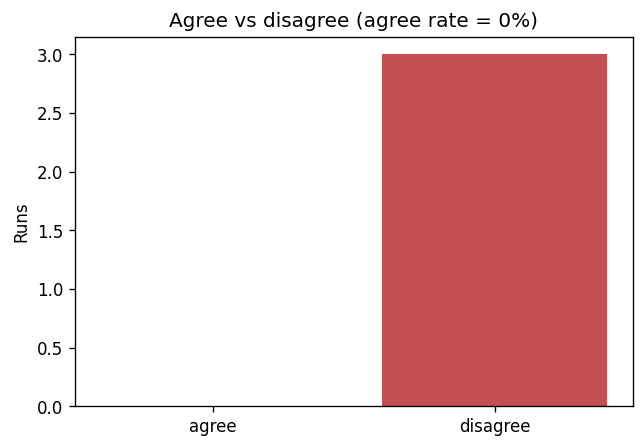
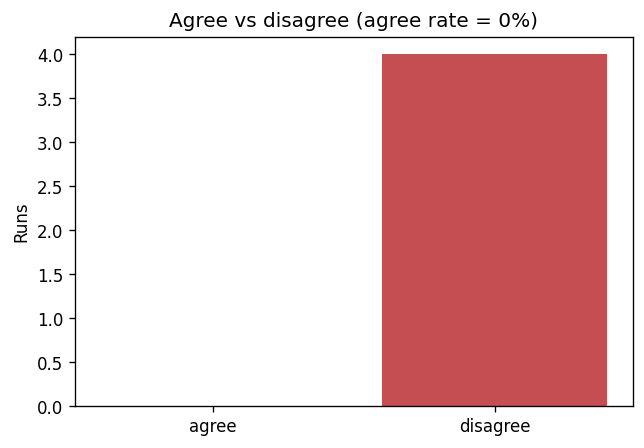
Add 5-round nuclear-energy debate run + update dataset/charts
Add a 5-round debate on "Nuclear energy is essential for solving the
climate crisis" (winner: Con). Adds the runs/nuclear-energy/ JSONL +
Markdown pair, a new row in runs/README.md, and regenerates the dataset
CSV and figures to reflect n=4 committed runs.

diff --git a/runs/nuclear-energy/nuclear-energy.md b/runs/nuclear-energy/nuclear-energy.md
@@ -1,0 +1,206 @@
+# Debate run `nuclear-energy`
+
+**Topic:** Nuclear energy is essential for solving the climate crisis
+
+## Transcript
+
+### Round 1
+
+**Pro** (143 words)
+
+## ⚡ Opening Argument — FOR the Motion
+
+**Nuclear energy is essential for solving the climate crisis.**
+
+Nuclear power produces among the **lowest lifecycle carbon emissions** of any energy source — on par with wind, and vastly cleaner than fossil fuels.
+
+Critically, unlike solar and wind, nuclear delivers **reliable 24/7 baseload power** regardless of weather conditions, filling the dangerous gaps that intermittent renewables simply cannot cover.
+
+The **IAEA confirms** nuclear complements renewables as global energy demand grows. France's example is decisive: by running a nuclear-heavy grid, it achieved **some of the world's lowest electricity emissions**.
+
+With climate science demanding full decarbonisation within decades, we cannot afford to **discard a proven, scalable, low-carbon technology**. Every credible net-zero pathway — including those from the IEA and IPCC — includes nuclear.
+
+The climate crisis is too urgent to leave any clean weapon off the table. 🌍
+
+**Con** (128 words)
+
+## ⚡ Rebuttal — AGAINST the Motion
+
+My opponent calls nuclear *essential* — but **"included" is not "essential."** The IEA and IPCC present nuclear as **one option**, not a mandatory requirement; renewables-only net-zero pathways exist.
+
+Their "reliable baseload" argument ignores a **fatal flaw: time.** Nuclear plants take **10–20 years** to build. Georgia's Vogtle reactors — America's newest — ran **7 years over schedule** and cost **$15,000/kW**. Meanwhile, battery storage costs dropped **89% from 2010–2023**. The climate crisis cannot wait for nuclear's timeline.
+
+France is an **unreplicable outlier** — built under unique Cold War conditions, ageing, and increasingly costly to maintain.
+
+Renewables + storage are solving intermittency **right now**, affordably. Nuclear is too slow, too expensive, and produces waste lasting millennia. **It is a distraction, not a solution.** 🌍
+
+### Round 2
+
+**Pro** (138 words)
+
+## ⚡ Rebuttal — FOR the Motion
+
+My opponent cherry-picks **Vogtle** while ignoring the UAE's Barakah plant and South Korea's fleet — built **on time and on budget** using modern APR-1400 designs. Construction problems are solvable; abandoning a proven low-carbon technology is not.
+
+Crucially, nuclear **already exists**. The current global fleet delivers ~10% of world electricity with near-zero emissions **today**. Dismantling it would be a climate disaster no renewables ramp-up could quickly offset.
+
+Battery storage is still **unproven for multi-day and seasonal grid needs** — exactly where nuclear is irreplaceable. Dropping costs don't solve the physics of cloudy, windless weeks.
+
+The IPCC's most ambitious net-zero scenarios project nuclear capacity **doubling by 2050** — that's not "one option," that's a cornerstone.
+
+Nuclear waste is tiny in volume and safely contained. Atmospheric CO₂ is not. The comparison is clear. 🌍
+
+**Con** (132 words)
+
+## ⚡ Rebuttal — AGAINST the Motion
+
+Two cherry-picked successes don't prove scalability. Barakah and South Korea are **regional exceptions** — globally, nuclear output is nearly **identical to 20 years ago** despite soaring demand, meaning its share has actively *shrunk* (Our World in Data, 2025). That's not a cornerstone; that's stagnation.
+
+The IPCC's "doubling" scenario is its **most nuclear-heavy pathway** — equally valid low-nuclear net-zero pathways exist. Citing the maximum isn't proof of necessity.
+
+On seasonal storage: **green hydrogen and long-duration storage** technologies are precisely designed for multi-day gaps — nuclear isn't the only answer.
+
+Meanwhile, renewables added **record capacity globally every year** while nuclear flatlined. The climate emergency demands the **fastest, cheapest, most scalable** solutions — and that is demonstrably renewables, not nuclear. Maintaining old plants ≠ scaling new ones. 🌍
+
+### Round 3
+
+**Pro** (141 words)
+
+## ⚡ Rebuttal — FOR the Motion
+
+Stagnation is a **policy failure, not a technology failure** — and the world is actively correcting it.
+
+At **COP28, 25 nations signed a declaration to TRIPLE nuclear capacity by 2050**; that number has since grown to **33 countries, including China and Brazil**. This is a global renaissance, not flatline.
+
+My opponent's renewable "capacity" figures are misleading. Solar averages **15–25% capacity factor**; nuclear exceeds **90%**. Record capacity additions ≠ record reliable generation — that gap is exactly where nuclear is irreplaceable.
+
+Green hydrogen for seasonal storage? Still **commercially unproven at grid scale**. We cannot bet the climate on technologies that don't yet exist reliably.
+
+Low-nuclear pathways require **vastly more land, storage, and redundancy** — they are costlier and riskier, not equivalent.
+
+The world has decided: nuclear is essential. 33 governments can't all be wrong. 🌍
+
+**Con** (130 words)
+
+## ⚡ Rebuttal — AGAINST the Motion
+
+**Declarations ≠ built reactors.** The COP28 pledge is non-binding with zero enforcement mechanism — and nuclear's decades-long track record of delays makes tripling by 2050 fantasy, not renaissance.
+
+On capacity factor: **90% efficiency means nothing without cost context.** Nuclear costs $10,000–$15,000/kW to build. Solar-plus-storage achieves comparable reliability at a *fraction* of that price — and falling.
+
+Crucially, those same 33 governments are **simultaneously pouring far greater investment into renewables**. That proves nuclear is considered *useful* — not *essential*. My opponent is conflating the two.
+
+Finally, political consensus ≠ technological necessity. Governments spent decades in "clean coal" consensus. They were wrong. **33 signatures don't override economics, timelines, or physics.** The climate crisis demands what works fastest and cheapest — and that remains renewables. 🌍
+
+### Round 4
+
+**Pro** (137 words)
+
+## ⚡ Rebuttal — FOR the Motion
+
+The **clean coal comparison collapses immediately**: clean coal *never worked*. Nuclear already delivers **proven, operational, near-zero-carbon electricity** to hundreds of millions daily. These are opposites, not equivalents.
+
+On costs — my opponent ignores **full system costs**. Solar-plus-storage requires massive grid upgrades, long-distance transmission, and long-duration storage that remains unproven at scale. Nuclear's sticker price looks different when you compare **complete system costs honestly**.
+
+On timelines — **SMRs change the equation entirely**. Factory-built modular reactors dramatically cut construction time. Amazon committed **$500M+ to SMR development in 2024**; the U.S. DOE launched a Gen III+ SMR deployment programme in **2025**. This is happening now.
+
+Solar-plus-storage matching nuclear's **90%+ capacity factor at grid scale** is a theoretical claim — not an operational reality anywhere on Earth.
+
+Nuclear works. It's proven. It's accelerating. 🌍
+
+**Con** (134 words)
+
+## ⚡ Rebuttal — AGAINST the Motion
+
+My opponent pivots to SMRs — but **as of 2025, not a single commercial SMR is operational in the Western world.** 127 designs exist; proven deployment is negligible. Amazon's $500M and DOE programmes are *bets on future technology*, not present solutions.
+
+Crucially, my opponent **conflates existing large reactors with unbuilt SMRs** — they are not interchangeable. "Nuclear is proven" cannot simultaneously justify speculative SMR technology.
+
+On full system costs: nuclear *also* requires grid infrastructure, cooling water, decades of waste storage, and costly decommissioning — routinely excluded from headline comparisons. The cost argument cuts both ways.
+
+Meanwhile, solar and wind set **record generation in 2024** — operational reality, not theory. The climate crisis demands solutions *now*. SMRs at best arrive in the 2030s. **That delay is disqualifying.** 🌍
+
+### Round 5
+
+**Pro** (132 words)
+
+## ⚡ Rebuttal — FOR the Motion
+
+My opponent's central claim is **factually wrong**. SMRs are already operational: **Russia's Akademik Lomonosov and China's HTR-PM and Linglong One** are commercially running *right now*. The "no SMR exists" argument is simply false.
+
+Meanwhile, the **existing large nuclear fleet** — hundreds of reactors — delivers proven, 24/7 low-carbon power **today**. My opponent can't dismiss that as "speculative."
+
+The "delay is disqualifying" argument ignores that **net-zero targets run to 2050** — SMRs arriving in the 2030s deliver **two full decades** of essential clean baseload.
+
+Most damning: **record renewable generation in 2024 coincided with record global CO₂ emissions**. That single fact destroys the claim that renewables alone are sufficient. Nuclear fills precisely the gap renewables cannot.
+
+The evidence keeps mounting. Nuclear is essential — not optional. 🌍
+
+**Con** (131 words)
+
+## ⚡ Rebuttal — AGAINST the Motion
+
+Russia's floating barge and China's experimental HTR-PM are **geopolitically isolated, non-replicable models** — not evidence of global SMR scalability. That's a weak foundation for "essential."
+
+The CO2 argument is **my opponent's most misleading yet.** Record 2024 emissions reflect fossil fuel dominance — renewables displaced every kilowatt they could. The gap isn't missing nuclear; it's **fossil fuels that nuclear also cannot quickly replace.** Where was nuclear's contribution to filling *that* gap?
+
+Critically, **IAEA data confirms 81GW of existing nuclear retires by 2050.** The "fleet delivers today" argument is a *shrinking* asset. Per Rabobank's analysis, few new large reactors operate before 2040 — meaning nuclear's near-term trajectory is **decline, not growth.**
+
+Renewables are scaling *now*. Nuclear is contracting *now*. The math doesn't make nuclear essential. 🌍
+
+## Closing discussion
+
+**Pro** (145 words)
+
+## 🏁 Closing Statement — FOR the Motion
+
+Here is the case, plainly stated:
+
+**Nuclear delivers 25% of all low-carbon electricity** while representing just 9% of total generation — an efficiency no other clean source matches. The IAEA confirmed this in 2026. That is not a distraction; that is a pillar.
+
+My opponent celebrated record renewables. Yet **2024 also saw record global CO₂ emissions**. That single, devastating fact proves renewables alone are not solving the crisis.
+
+Nuclear is **proven, operational, and scaling** — 33 nations committed, SMRs running in Asia, new capacity accelerating. Every IEA and IPCC net-zero pathway includes it.
+
+Abandoning nuclear means replacing irreplaceable 24/7 clean baseload with unproven seasonal storage on an unforgiving deadline. That is not boldness — it is recklessness.
+
+The climate crisis demands **every proven clean weapon**. Nuclear is essential. The evidence, the science, and 33 governments agree. 🌍
+
+**Con** (142 words)
+
+## ⚡ Closing Statement — AGAINST the Motion
+
+Throughout this debate, one truth has remained unshaken: **"included" is not "essential."**
+
+Nuclear has had 70 years to scale. Instead, its global share **stagnated for two decades** while 81GW faces retirement by 2050. The fleet is contracting, not expanding. SMR "successes" remain isolated experiments, and COP28 pledges are non-binding political gestures from governments that simultaneously invest *far more* in renewables.
+
+My opponent's strongest point — record CO2 alongside record renewables — actually indicts **fossil fuels**, not renewables. Nuclear added nothing meaningful to that equation either.
+
+Meanwhile, solar and wind deployment hit **record highs in 2024**, costs keep falling, and storage technology advances rapidly. The IPCC confirms renewables-only pathways exist.
+
+The climate crisis demands the **fastest, cheapest, most scalable solutions**. Nuclear is none of those things. It is a choice — never a necessity. 🌍
+
+## Controller nudges
+
+_No nudges were needed — neither agent drifted._
+
+## Verdict
+
+- **Winner:** Con
+- **Agents converged:** no
+- **Scores:** Pro 13.5, Con 16.5
+
+**Summary.** Debate of 12 turns. The con side argued more effectively and wins. The agents stayed opposed. Judged on argumentation, rebuttal quality and engagement — not factual correctness.
+
+**Rationale.** Pro scored 13.5 and Con scored 16.5 on argumentation/rebuttal/engagement; winner = con.
+
+## Cost & tokens
+
+- **Total tokens:** 170851 (input 159204, output 11647)
+- **Total cost:** $0.652317
+- **Total latency:** 261812 ms
+
+| Model | Input tokens | Output tokens | $ Input | $ Output | $ Total |
+| --- | --- | --- | --- | --- | --- |
+| anthropic:claude-sonnet-4-6 | 159204 | 11647 | $0.477612 | $0.174705 | $0.652317 |
+| Overall | 159204 | 11647 | $0.477612 | $0.174705 | $0.652317 |

diff --git a/notebooks/figures/README.md b/notebooks/figures/README.md
@@ -1,9 +1,10 @@
 # Debate results — interpreted visualizations (PRD §9, task 14.3)
 
 These charts visualize the four PRD §9 analyses over the committed sample runs
-(`runs/dataset/runs_summary.csv`, **n = 3** debates — the full 10-round
-`capitalism` run, the 5-round `four-day-work-week` policy run, and the 5-round
-`online-education` education debate). They are
+(`runs/dataset/runs_summary.csv`, **n = 4** debates — the full 10-round
+`capitalism` run, the 5-round `four-day-work-week` policy run, the 5-round
+`online-education` education debate, and the 5-round `nuclear-energy` energy
+debate). They are
 regenerated from the durable `runs/<run_id>.jsonl` logs by reusing the 14.2
 analysis functions (`agent_debate.core.research.analysis`) — no aggregation is
 re-implemented here.
@@ -17,17 +18,18 @@ uv run --group viz python scripts/generate_figures.py
 
 PRD §9 asks for *interpretation*, not just numbers, with an eye on whether the
 anti-sycophancy design holds. Each chart below is read in that light. The
-empirical basis is n = 3 runs (an economics topic at 10 rounds, a policy
-topic at 5 rounds, and an education topic at 5 rounds), so these illustrate
-tendencies across three debates rather than statistical trends across many.
+empirical basis is n = 4 runs (an economics topic at 10 rounds, a policy
+topic at 5 rounds, an education topic at 5 rounds, and an energy topic at 5
+rounds), so these illustrate tendencies across four debates rather than
+statistical trends across many.
 
 ## 1. Who-wins distribution
 
 ![Who-wins distribution](who_wins.png)
 
-Two of the three committed runs (`capitalism` and `four-day-work-week`) were won by **pro**;
-the `online-education` run was won by **con**.
-With only three runs this is a small sample — it does not establish a structural
+The four committed runs split evenly: `capitalism` and `four-day-work-week` were won by
+**pro**; `online-education` and `nuclear-energy` were won by **con**.
+With only four runs this is a small sample — it does not establish a structural
 favourite for either side. The verdict mechanism itself (side-anchoring +
 independent contexts, §5, plus the controller's debate-derived judgement) is
 what guards against one persona dominating; that logic is exercised by the
@@ -37,26 +39,26 @@ engine tests, not inferred from a three-run chart.
 
 ![Agree vs disagree](agree_vs_disagree.png)
 
-**0 % convergence across all three runs** — all debates ended in disagreement
+**0 % convergence across all four runs** — all debates ended in disagreement
 (`converged = False`). This is the *expected* result for an adversarial debate
 format: Pro and Con are anchored to opposing sides and instructed not to
 capitulate, so genuine agreement should be rare. A high agree rate here would
 be a red flag for sycophancy/capture (one side rolling over). Zero convergence
-across all three runs is consistent with the format holding the adversarial tension
+across all four runs is consistent with the format holding the adversarial tension
 it was designed for, not a defect.
 
 ## 3. Controller nudges per side (anti-sycophancy evidence)
 
 ![Nudges per side](nudges_per_side.png)
 
-**0 nudges on both sides across all three runs.** The controller's drift/nudge
+**0 nudges on both sides across all four runs.** The controller's drift/nudge
 mechanism (§8) corrects a debater that gets captured by its opponent and
-abandons its assigned side. In none of the three runs did it have to intervene: the side
+abandons its assigned side. In none of the four runs did it have to intervene: the side
 anchors held on their own. That is the headline anti-sycophancy result — the
 design keeps each agent on-side *without* needing the safety net. This does
 not mean the nudge path is untested: the staged-drift detection/correction
-logic is exercised directly by the engine tests (task 8.4); all three real runs
-simply did not trip it. With n = 3 we read this as "the anchoring held on
+logic is exercised directly by the engine tests (task 8.4); all four real runs
+simply did not trip it. With n = 4 we read this as "the anchoring held on
 all topics tested", not as proof the controller never nudges.
 
 ## 4. Tokens & latency per round

diff --git a/runs/README.md b/runs/README.md
@@ -22,9 +22,10 @@ two fixes in #202 — inject the debate topic into the debater context — and #
 actually deliver the agent system prompt to the model on the `message_history`
 path). The debaters argue the stated motion and rebut each other's actual words.
 
-The repo keeps **three committed sample debates**: a full 10-round `capitalism` run at
+The repo keeps **four committed sample debates**: a full 10-round `capitalism` run at
 the PRD default, a 5-round `four-day-work-week` policy debate added to expand the
-dataset, and a 5-round `online-education` debate on the education topic. Three earlier
+dataset, a 5-round `online-education` debate on the education topic, and a 5-round
+`nuclear-energy` debate on the energy/climate topic. Three earlier
 reduced-round sample debates were removed to avoid presenting them as current evidence.
 
 | Topic | Kind | Rounds | Winner | Total tokens | Cost (USD) | Read it |
@@ -32,6 +33,7 @@ reduced-round sample debates were removed to avoid presenting them as current ev
 | Capitalism is, on balance, a force for good in society. | economics | 10 | Pro | 343,521 | $1.261 | [`capitalism/capitalism.md`](capitalism/capitalism.md) |
 | A four-day work week should become the global standard | policy | 5 | Pro | 146,555 | $0.566 | [`four-day-work-week/four-day-work-week.md`](four-day-work-week/four-day-work-week.md) |
 | Online education is superior to traditional classroom learning | education | 5 | Con | 140,898 | $0.544 | [`online-education/online-education.md`](online-education/online-education.md) |
+| Nuclear energy is essential for solving the climate crisis | energy | 5 | Con | 170,851 | $0.652 | [`nuclear-energy/nuclear-energy.md`](nuclear-energy/nuclear-energy.md) |
 
 The **Read it** link opens the human-readable transcript + verdict + cost table; the
 matching machine-readable event log sits alongside it as `<run_id>/<run_id>.jsonl`. The
